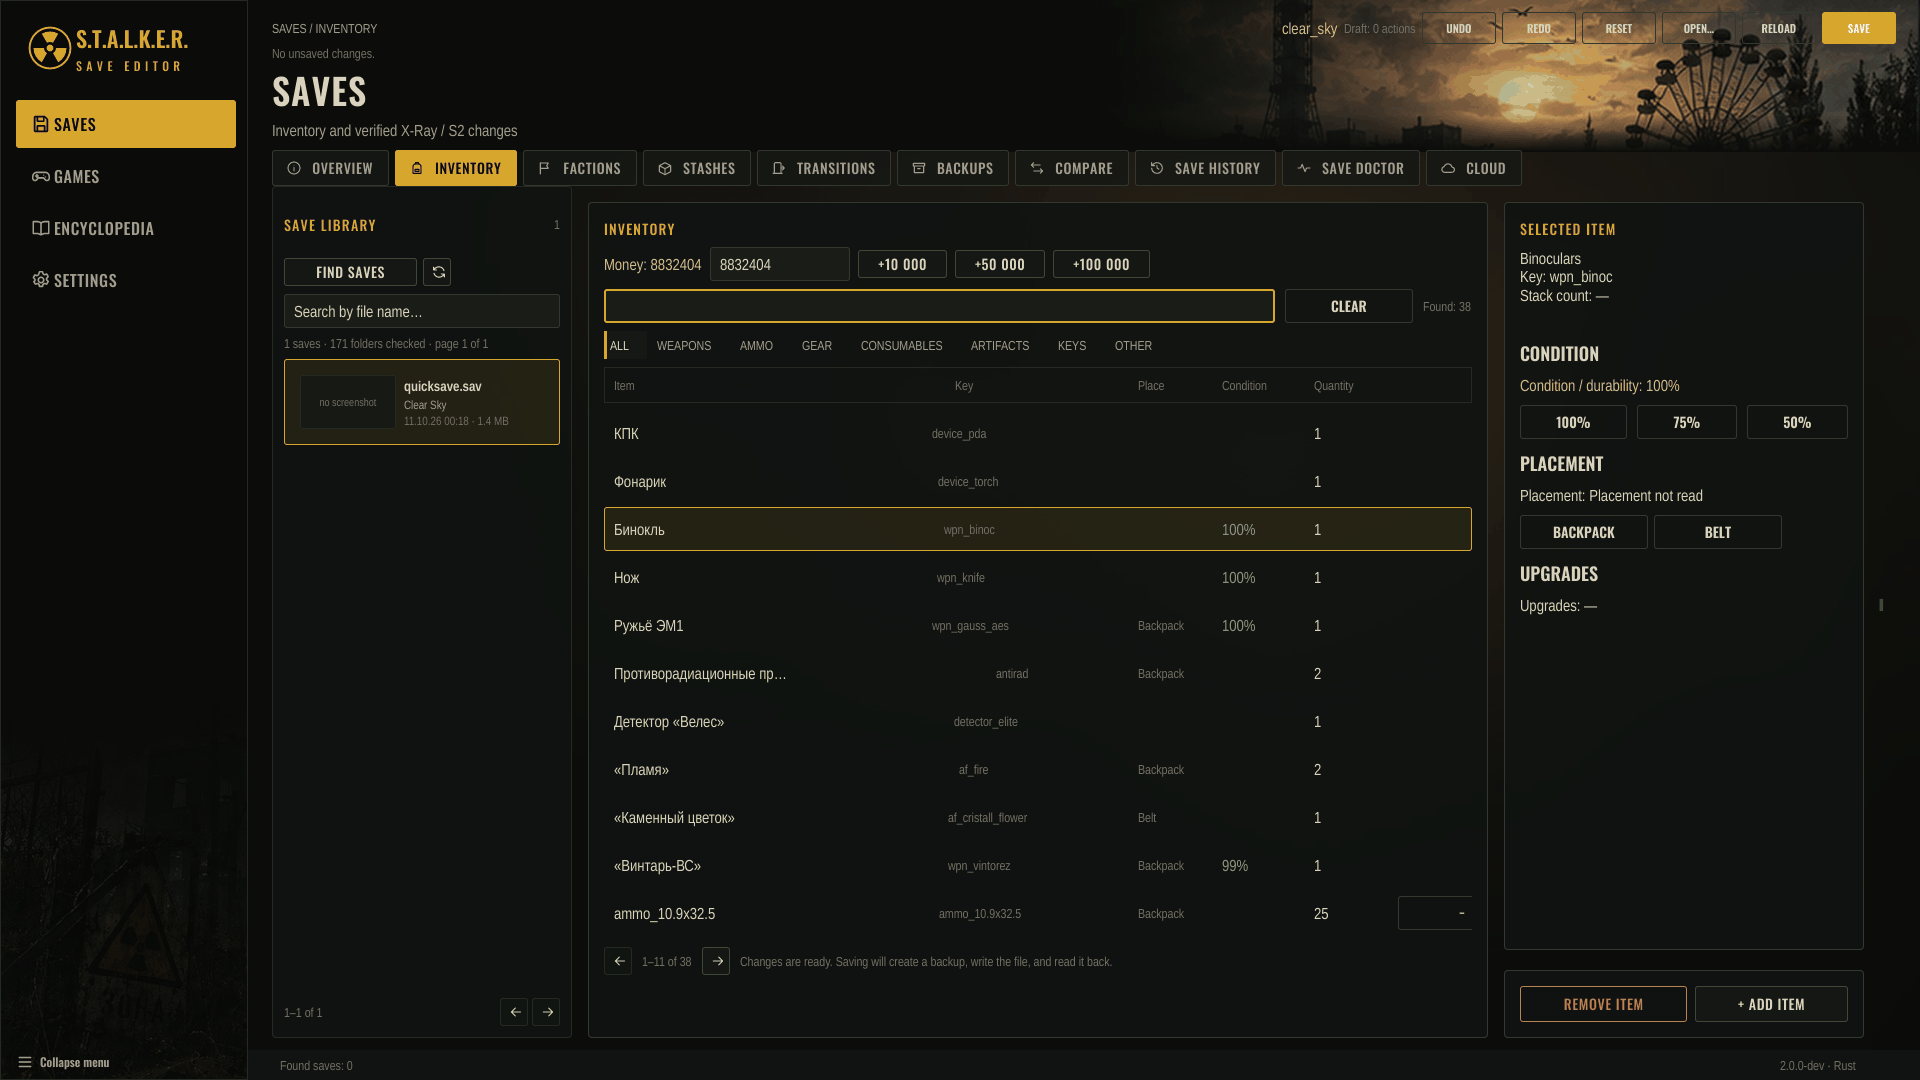
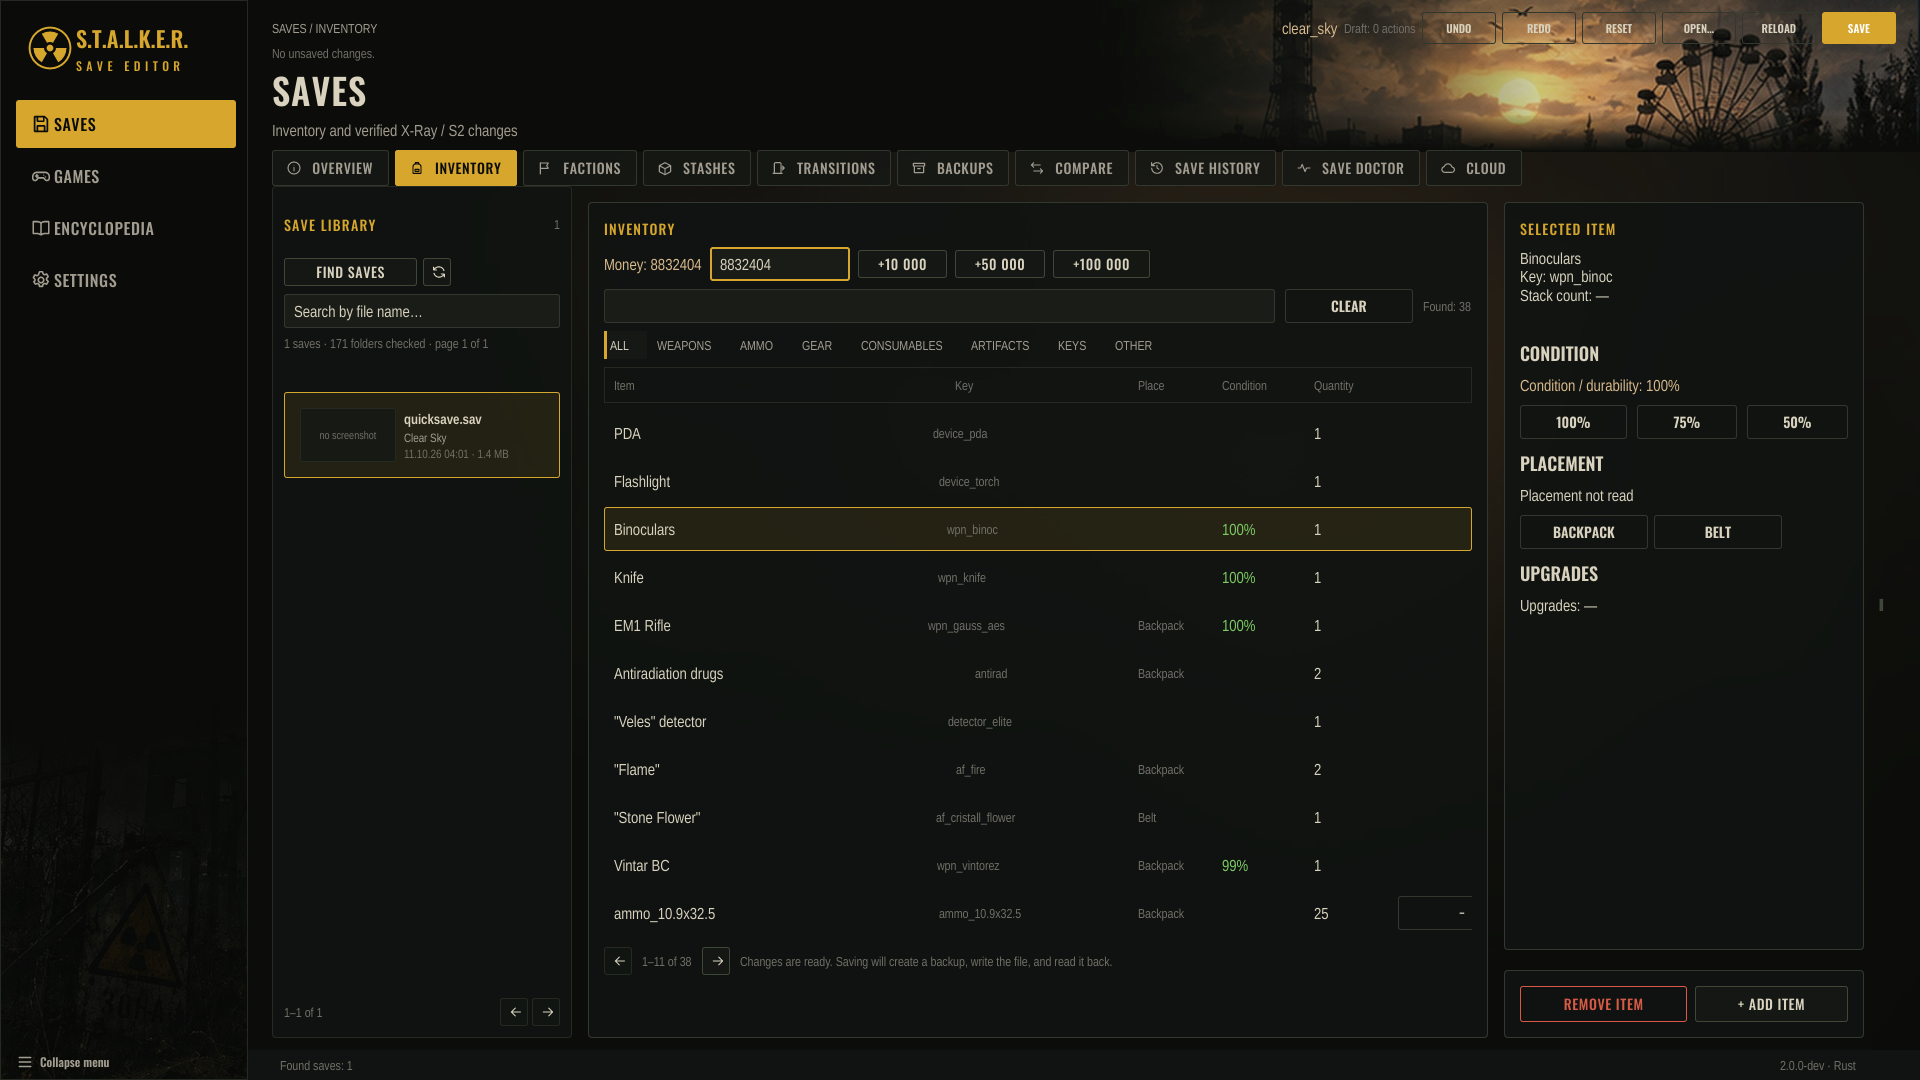
docs: README screenshots for the interface in English

diff --git a/README.md b/README.md
@@ -8,6 +8,20 @@ Version `2.0.0-dev`. Not released yet. What is checked and what is not is listed
 
 ![Inventory screen](docs/images/inventory.png)
 
+*Inventory: the save's items, with names in the interface language.*
+
+![Overview screen](docs/images/overview.png)
+
+*Overview: the save's parameters, library and integrity details.*
+
+![Game fixes screen](docs/images/game-fixes.png)
+
+*Game fixes: the catalogue for an installed game, with install state.*
+
+![Capabilities screen](docs/images/capabilities.png)
+
+*Capabilities: what the editor can write, read or refuse, per game.*
+
 ## What it can do
 
 ### Saves
